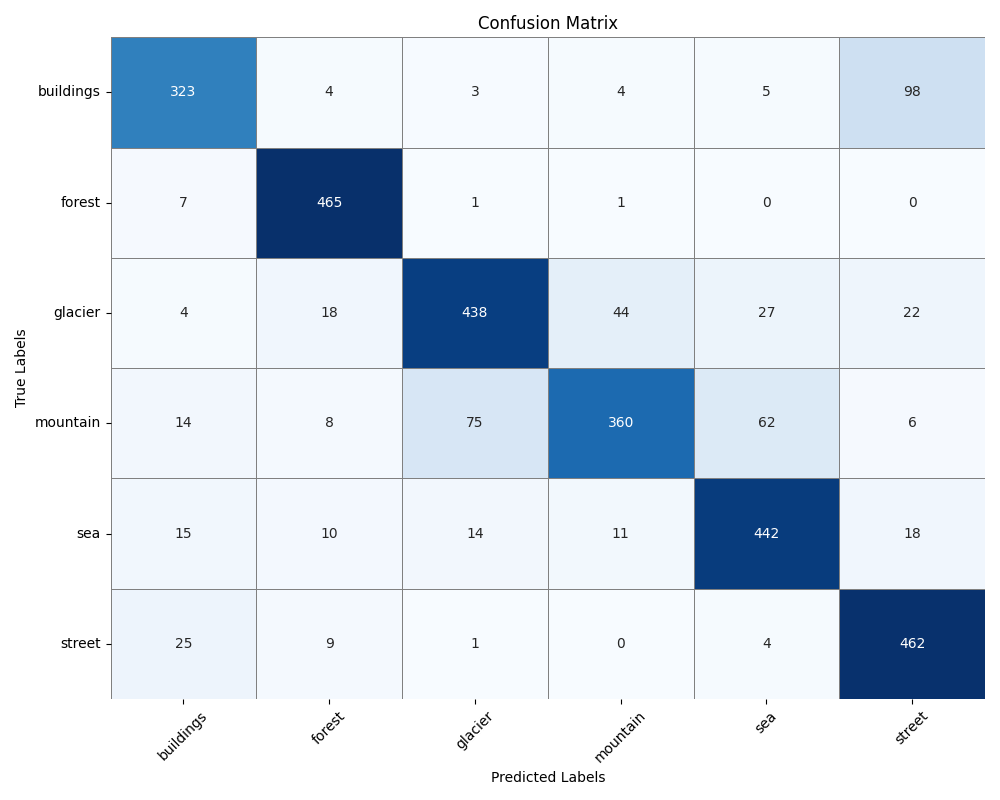
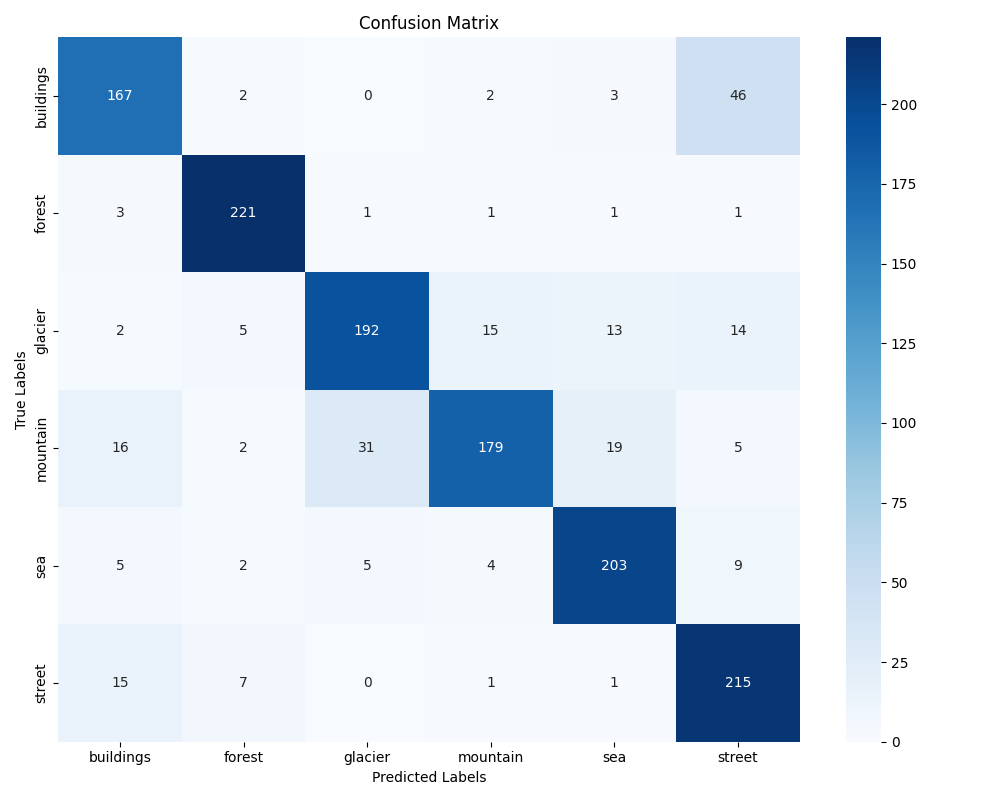
edit

diff --git a/TFTest.py b/TFTest.py
@@ -9,7 +9,7 @@ from sklearn.metrics import classification_report, confusion_matrix
 model = load_model('bestmodel.keras')
 
 test_gen = image_dataset_from_directory(
-    "Data/val",
+    "Data/test",
     labels="inferred",
     label_mode="categorical",
     image_size=(150, 150),
@@ -34,12 +34,9 @@ cm = confusion_matrix(y_true_labels, y_pred)
 
 plt.figure(figsize=(10, 8))
 sns.heatmap(cm, annot=True, fmt='d', cmap='Blues',
-            xticklabels=class_names, yticklabels=class_names,
-            cbar=False, linewidths=0.5, linecolor='gray')
+            xticklabels=class_names, yticklabels=class_names)
 plt.xlabel('Predicted Labels')
 plt.ylabel('True Labels')
 plt.title('Confusion Matrix')
-plt.xticks(rotation=45)
-plt.yticks(rotation=0)
 plt.tight_layout()
 plt.show()

diff --git a/README.md b/README.md
@@ -4,6 +4,24 @@ This repository contains the training pipeline for a **Intel Image classificatio
 
 ---
 
+## Intel Image Classification Dataset
+
+This dataset used here is provided by **Intel** and is designed for natural scene classification. It contains RGB images across 6 natural categories:
+
+* **Buildings**
+
+* **Forest**
+
+* **Glacier**
+
+* **Mountain**
+
+* **Sea**
+
+* **Street**
+
+---
+
 ## Objective
 
 To build and compare robust CNN models using TensorFlow and PyTorch for classification using image data. This forms part of a portfolio-ready end-to-end ML project including model training, evaluation, and web deployment.
@@ -134,6 +152,22 @@ GPU acceleration is recommended if available.
 * Clean modular design for reproducibility
 * Evaluation visualizations for clarity
 * Ready for deployment in Flask app
+
+---
+
+## 🌐 Deployment
+
+The trained models from this repository are integrated into a **Flask-based Image Prediction API**, allowing you to interact with the models via a simple web interface or programmatically.
+
+You can try out the deployed models here:
+
+👉 [Image Prediction API Repository](https://github.com/JAGAN-JGUN/Image-Prediction-API)
+
+The API supports both **TensorFlow** and **PyTorch** models and provides:
+
+- A web interface for image upload & prediction
+- REST API endpoint for programmatic access
+- Sample usage with unseen images for real-world testing
 
 ---
 
